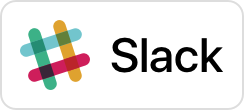
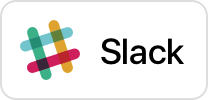
Updated README buttons

diff --git a/README.md b/README.md
@@ -1,7 +1,8 @@
 # Team JSON Bourne
 ### Project TBD
 
-<a href="https://json-bourne.slack.com" target="_blank"><img src="Resources/Slack Button.png" height="55px" /></a>
-<a href="https://trello.com/jsonbourne" target="_blank"><img src="Resources/Trello Button.png" height="55px" /></a>
+<a href="https://json-bourne.slack.com" target="_blank"><img src="Resources/Slack Button.png" alt="Slack" height="50px" /></a>
+<a href="https://trello.com/jsonbourne" target="_blank"><img src="Resources/Trello Button.png" alt="Trello" height="50px" /></a>
+<a href="https://github.com/Burry/JSON-Bourne-Temp-Name/milestones?direction=asc&sort=due_date" target="_blank"><img src="Resources/Milestones Button.png" alt="Milestones" height="50px" /></a>
 
 <center><img src="Resources/JSON Bourne.jpg"></center>
